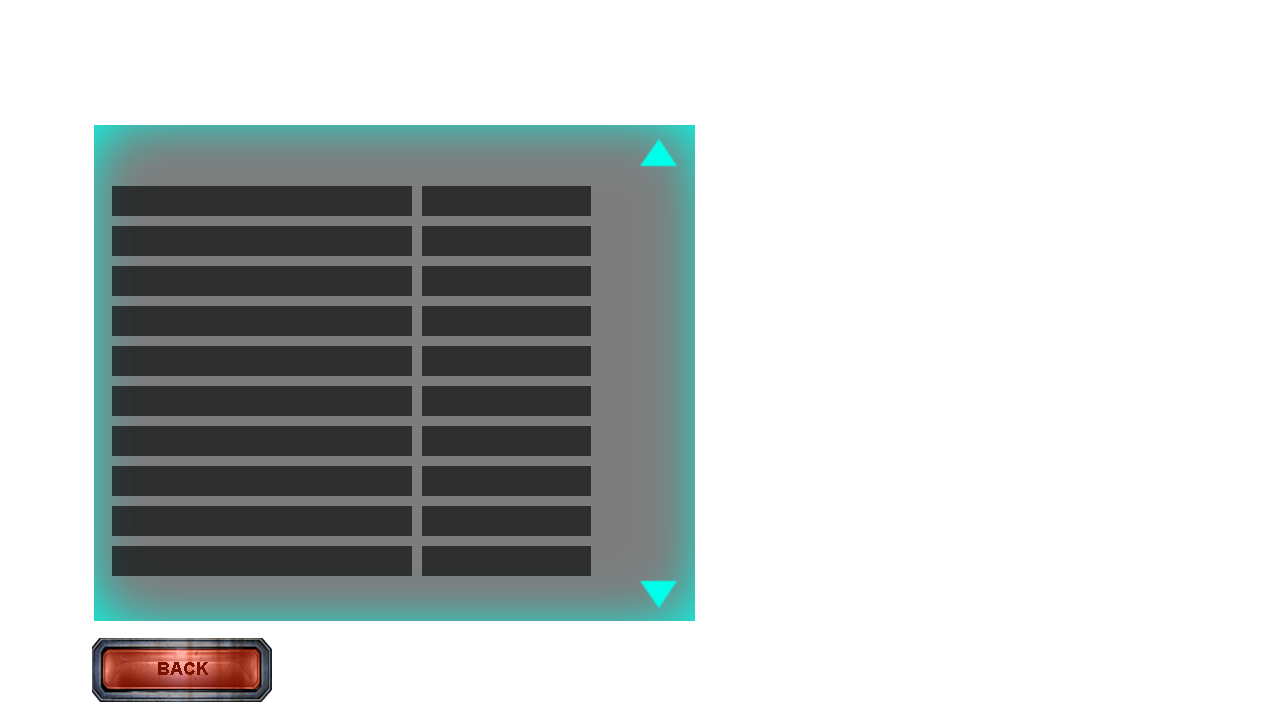
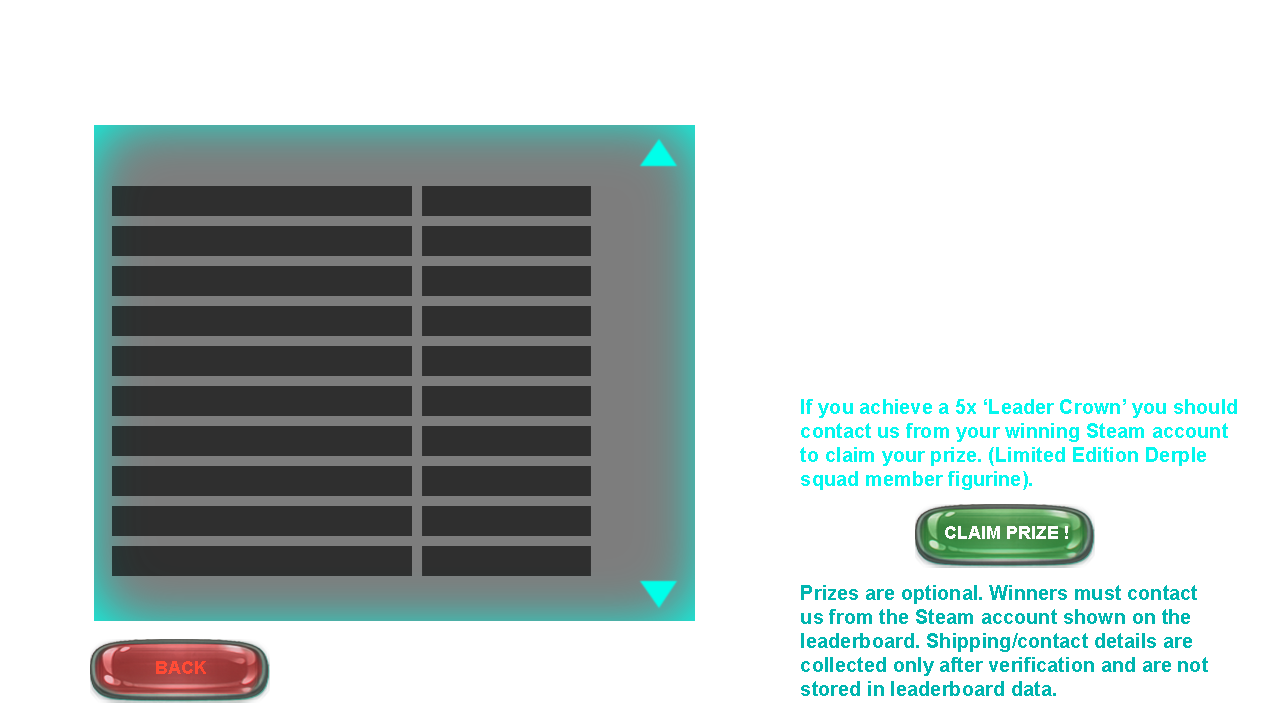
Bank monthly leaderboard prizes.

Changed region(s): [[0.625, 0.55, 0.9688, 0.9778], [0.0625, 0.8861, 0.2188, 0.9778]]

diff --git a/Docs/SUPABASE_LEADERBOARDS.md b/Docs/SUPABASE_LEADERBOARDS.md
@@ -278,15 +278,32 @@ block gameplay.
 
 ## Winner Badges
 
-Winner badges are admin-managed. The shipped game should read badges but never
+Winner badges are server-managed. The shipped game should read badges but never
 write them.
 
-Monthly prize process:
+The recommended monthly process is implemented in
+`Docs/SUPABASE_MONTHLY_SEASON_CLOSE.sql`.
 
-1. You review the leaderboard manually.
-2. You add/update rows in `winner_badges`.
-3. The game fetches public badge rows and shows icons beside display names.
-4. Winners contact you voluntarily outside the game to claim any prize.
+At month close, Supabase should:
+
+1. Archive the current live solo and multiplayer leaderboard rows.
+2. Award one `winner_badges` row for every top solo player.
+3. Award one `winner_badges` row for every Steam ID on the top MP team.
+4. Clear the live score tables so the next month starts empty.
+
+The public badge count view already counts `winner_badges` rows, so adding one
+row per winning period automatically increments the visible badge count. If a
+player wins solo twice, they have two active `board = 'solo'` rows and the game
+shows the solo icon count as `2`.
+
+The monthly close function uses all tied top scores as winners. For MP, if two
+teams tie for top score, every player on both teams receives a co-op winner row.
+This is the least surprising tie rule and avoids silent subjective tie breaks.
+
+The function should be run by Supabase/server-side privileges only. Do not expose
+it to the game client or grant execute permission to `anon`.
+
+Winners still contact you voluntarily outside the game to claim any prize.
 
 ## Manual Setup Checklist
 
@@ -294,7 +311,9 @@ Monthly prize process:
 2. Pick a hosting region appropriate for your player/privacy obligations.
 3. Run the table and view SQL.
 4. Enable and review RLS.
-5. Deploy the Edge Function.
-6. Store the service-role key only as an Edge Function secret.
-7. Put only URL/anon key/function name into client config.
-8. Test with fake SteamIDs before enabling live submissions.
+5. Run `Docs/SUPABASE_MONTHLY_SEASON_CLOSE.sql`.
+6. Deploy the Edge Function.
+7. Store the service-role key only as an Edge Function secret.
+8. Put only URL/anon key/function name into client config.
+9. Test with fake SteamIDs before enabling live submissions.
+10. Enable the optional monthly cron only after dry-run output looks correct.
